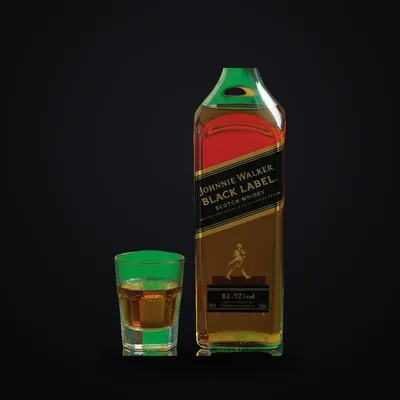
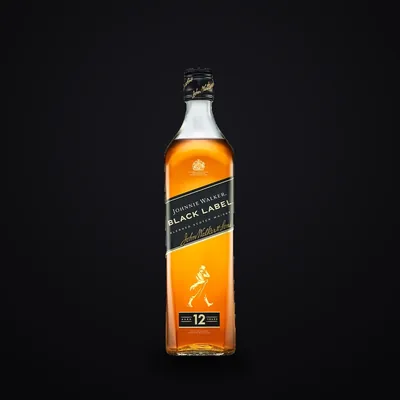
Cinco garrafas de dose com a tampa inteira, e o Party vai para Outros
As tampas não estavam sendo cortadas pelo card: o corte é um traço reto e
horizontal no alto da garrafa, que é borda de foto e não borda de recorte. A
foto do totem já vinha com a tampa fora do quadro, e o pipeline enquadra o
que existe — acha o produto, centraliza, põe a base no lugar — mas não
inventa o pedaço que nunca foi fotografado.

Black Label, Chivas, Red Label, Jack Daniel's e José Cuervo passam a usar as
fotos de e-commerce que o bar mandou. O recorte por limiar de branco não
serviu: a do Jack Daniel's tem fundo que não é branco puro e voltou inteira,
e a do Chivas trouxe o reflexo do estúdio como um borrão colado na base. Pelo
recorte por modelo as cinco saem limpas, e caem no mesmo degradê escuro, na
mesma altura e na mesma base das outras.

Fica uma diferença de composição na aba: as cinco novas são só a garrafa, e
Absolut, Ballantine's e Jambuzera continuam com o copo de dose ao lado,
porque a foto delas é assim.

Party não é drink. Estava em Autorais a R$ 32 com "Drink autoral da casa",
descrição que uma sessão anterior inferiu e que já constava da lista a
confirmar. O bar confirmou que é leque: foi para Outros, logo depois do Leque
Mitte Bar.

As folgas de enquadramento continuam as mesmas depois da troca — lateral
6,9%, topo 16,9%, base 9,5% — então os limites de proporção do card seguem
valendo sem mexer. Conferido nas abas afetadas: nenhum item cortado, nenhum
nome cortado, sem erro de console e sem 404.
[…]

Changed region(s): [[0.27, 0.15, 0.72, 0.9]]

diff --git a/REVISAR.md b/REVISAR.md
@@ -445,3 +445,48 @@ apagando uma linha. Comidas ficou com 9 itens.
 Entrou pelo caminho das latas de catálogo: recortada do fundo branco e posta
 no degradê escuro. Ficou a 71,7% de altura, base em 88,9%, centro em 0,499 —
 dentro do padrão. **Sobraram 2 itens sem foto**: Eco Bag e Party.
+
+---
+
+## 10. As cinco garrafas de dose, e o Party (22/10/2026)
+
+### Por que as tampas estavam cortadas
+
+Black Label, Chivas, Red Label, Jack Daniel's e José Cuervo saíam do card sem
+a tampa. O corte é um **traço reto e horizontal** no alto da garrafa — não é
+borda rasgada de recorte malfeito, é borda de foto. A foto do totem já vinha
+enquadrada com a tampa fora do quadro, e o pipeline enquadra o que existe:
+ele acha o produto, centraliza e põe a base no lugar certo, mas não inventa
+o pedaço que nunca foi fotografado.
+
+As cinco foram substituídas por fotos de e-commerce que o bar mandou, pelo
+caminho do recorte por modelo. O recorte por limiar de branco não serviu
+aqui: a foto do Jack Daniel's tem fundo que não é branco puro e voltou
+inteira, e a do Chivas trouxe o reflexo do estúdio como um borrão branco
+colado na base.
+
+**Efeito colateral:** as cinco novas são só a garrafa. Absolut, Ballantine's
+e Jambuzera continuam com o copo de dose ao lado, porque a foto delas é
+assim. A aba ficou com dois tipos de composição. Se o bar quiser uniformizar,
+o caminho é uma foto de cada uma das três sem o copo — ou das cinco com ele.
+
+### Party não é drink: é leque
+
+Estava em Autorais a R$ 32, com a descrição "Drink autoral da casa" — que era
+palpite de uma sessão anterior, e estava na lista de descrições a confirmar.
+O bar confirmou que é leque. Foi para **Outros**, logo depois do Leque Mitte
+Bar, e a descrição mudou para a de leque. Autorais ficou com 4 itens; Outros,
+com 18.
+
+A descrição ainda é um palpite — "Leque do Mitte, para dançar sem derreter",
+a mesma do Leque Mitte Bar. Dois leques com a mesma frase e preços diferentes
+(R$ 60 e R$ 32) pedem uma palavra do bar sobre o que distingue os dois.
+
+### Party e Eco Bag continuam sem foto
+
+As fotos existem — o bar mandou o leque laranja-e-rosa sobre o mármore e a
+eco bag sobre a cortina roxa —, mas chegaram nesta sessão só como imagem na
+conversa, não como arquivo que o pipeline consiga abrir. Reenviadas como
+anexo, as duas entram em uma rodada: a eco bag pelo caminho das fotos de bar,
+que preserva o fundo (a cortina roxa é da identidade), e o leque pelo recorte
+sobre o degradê escuro, porque o mármore do piso não acrescenta nada.
